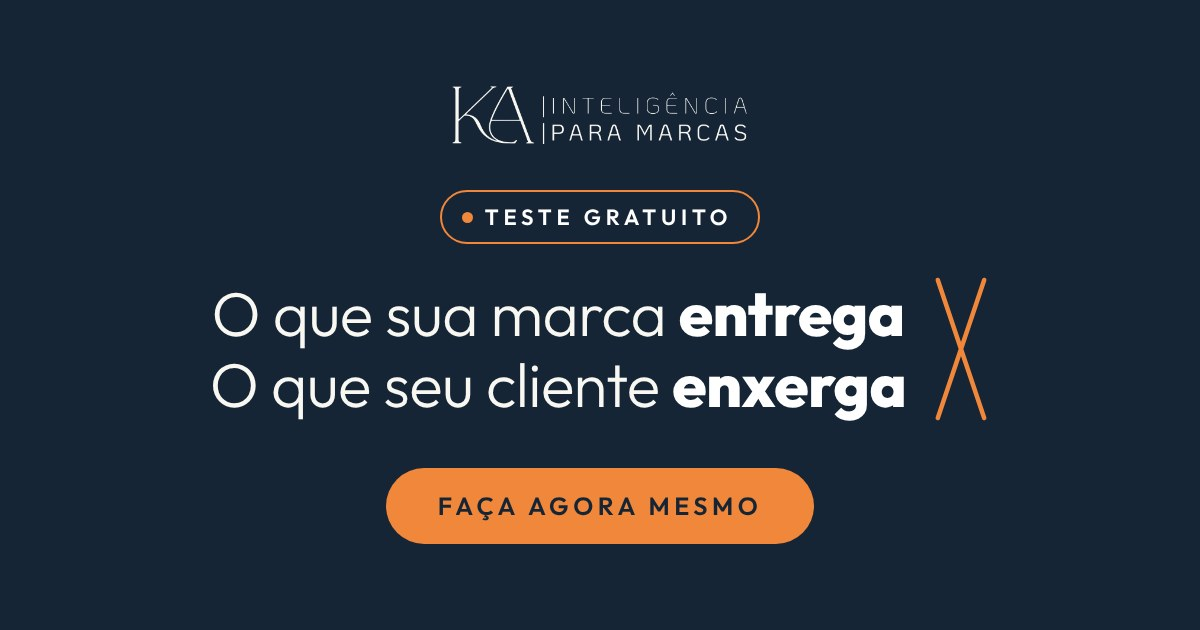
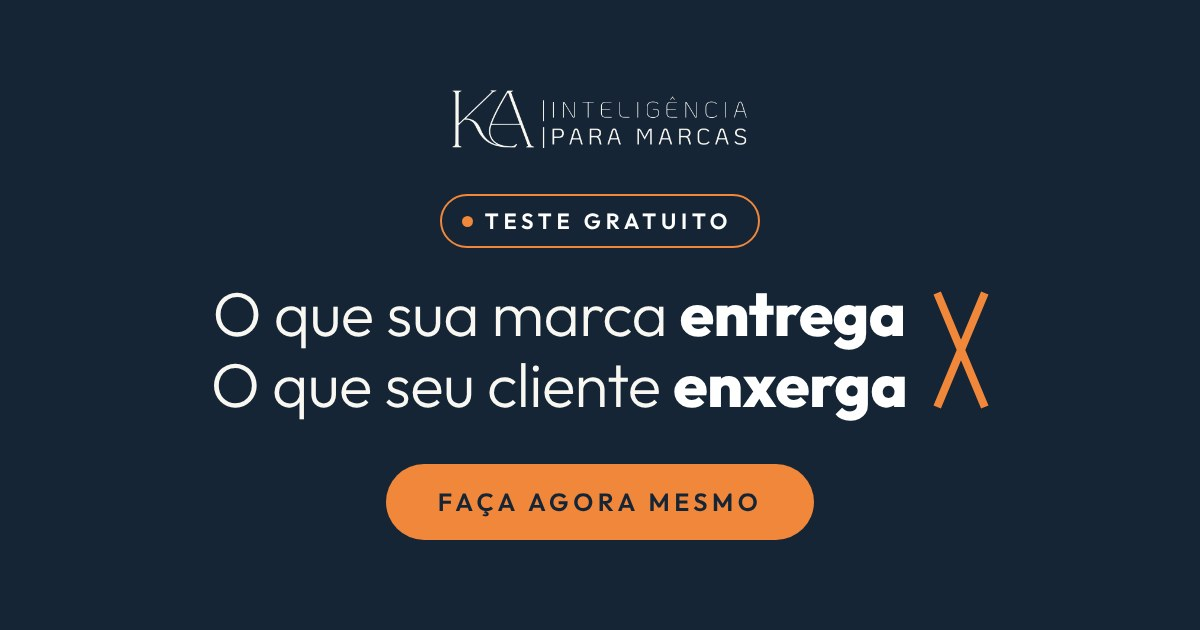
valorpercebido: X do título mais grosso e alinhado ao topo e à base das duas linhas
Claude-Session: https://claude.ai/code/session_017aiGVMKn5tw4KpzB2qogrv

diff --git a/valorpercebido/index.html b/valorpercebido/index.html
@@ -7,8 +7,8 @@
 <meta property="og:title" content="Teste: O que sua marca entrega × O que seu cliente enxerga">
 <meta property="og:description" content="Teste gratuito, 11 perguntas e 5 minutos. Descubra a distância entre o valor real e o valor percebido da sua marca e receba o resultado na hora.">
 <meta property="og:site_name" content="KA | Inteligência para Marcas">
-<meta property="og:image" content="https://kellyalbert.com.br/images/og/og-valorpercebido.jpg?v=5">
-<meta property="og:image:secure_url" content="https://kellyalbert.com.br/images/og/og-valorpercebido.jpg?v=5">
+<meta property="og:image" content="https://kellyalbert.com.br/images/og/og-valorpercebido.jpg?v=6">
+<meta property="og:image:secure_url" content="https://kellyalbert.com.br/images/og/og-valorpercebido.jpg?v=6">
 <meta property="og:image:type" content="image/jpeg">
 <meta property="og:image:width" content="1200">
 <meta property="og:image:height" content="630">
@@ -16,7 +16,7 @@
 <meta property="og:url" content="https://kellyalbert.com.br/valorpercebido/">
 <meta property="og:locale" content="pt_BR">
 <meta name="twitter:card" content="summary_large_image">
-<meta name="twitter:image" content="https://kellyalbert.com.br/images/og/og-valorpercebido.jpg?v=5">
+<meta name="twitter:image" content="https://kellyalbert.com.br/images/og/og-valorpercebido.jpg?v=6">
 <meta name="theme-color" content="#152535">
 <link rel="icon" type="image/x-icon" href="/favicon.ico">
 <link rel="icon" type="image/png" sizes="32x32" href="/images/favicon-32x32.png">
@@ -64,8 +64,8 @@ button,input{font-family:inherit}
 .topo__titulo{display:flex;align-items:center;justify-content:center;gap:.4em;max-width:none}
 .topo__linhas{display:grid;justify-items:center}
 .topo__linha{display:block;white-space:nowrap}
-.topo__x{flex:none;width:.95em;height:2.5em}
-.topo__x path{stroke:var(--laranja);stroke-width:3;stroke-linecap:round;fill:none;vector-effect:non-scaling-stroke}
+.topo__x{flex:none;align-self:flex-start;width:.9em;height:1.88em;margin-top:.26em;overflow:visible}
+.topo__x path{stroke:var(--laranja);stroke-width:5.5;stroke-linecap:butt;fill:none;vector-effect:non-scaling-stroke}
 .topo .rotulo::before{display:none}
 
 /* Cabeçalho do chat */
@@ -220,7 +220,7 @@ button,input{font-family:inherit}
 <main class="app">
   <header class="topo">
     <span class="rotulo"><i aria-hidden="true"></i>Teste gratuito</span>
-    <h1 class="topo__titulo"><span class="topo__linhas"><span class="topo__linha">O que sua marca <b>entrega</b></span><span class="topo__linha">O que seu cliente <b>enxerga</b></span></span><svg class="topo__x" viewBox="0 0 40 100" preserveAspectRatio="none" aria-hidden="true"><path d="M4 4L36 96M36 4L4 96"/></svg></h1>
+    <h1 class="topo__titulo"><span class="topo__linhas"><span class="topo__linha">O que sua marca <b>entrega</b></span><span class="topo__linha">O que seu cliente <b>enxerga</b></span></span><svg class="topo__x" viewBox="0 0 40 100" preserveAspectRatio="none" aria-hidden="true"><path d="M3 0L37 100M37 0L3 100"/></svg></h1>
     <p class="topo__sub">Valor real e valor percebido</p>
   </header>
 
